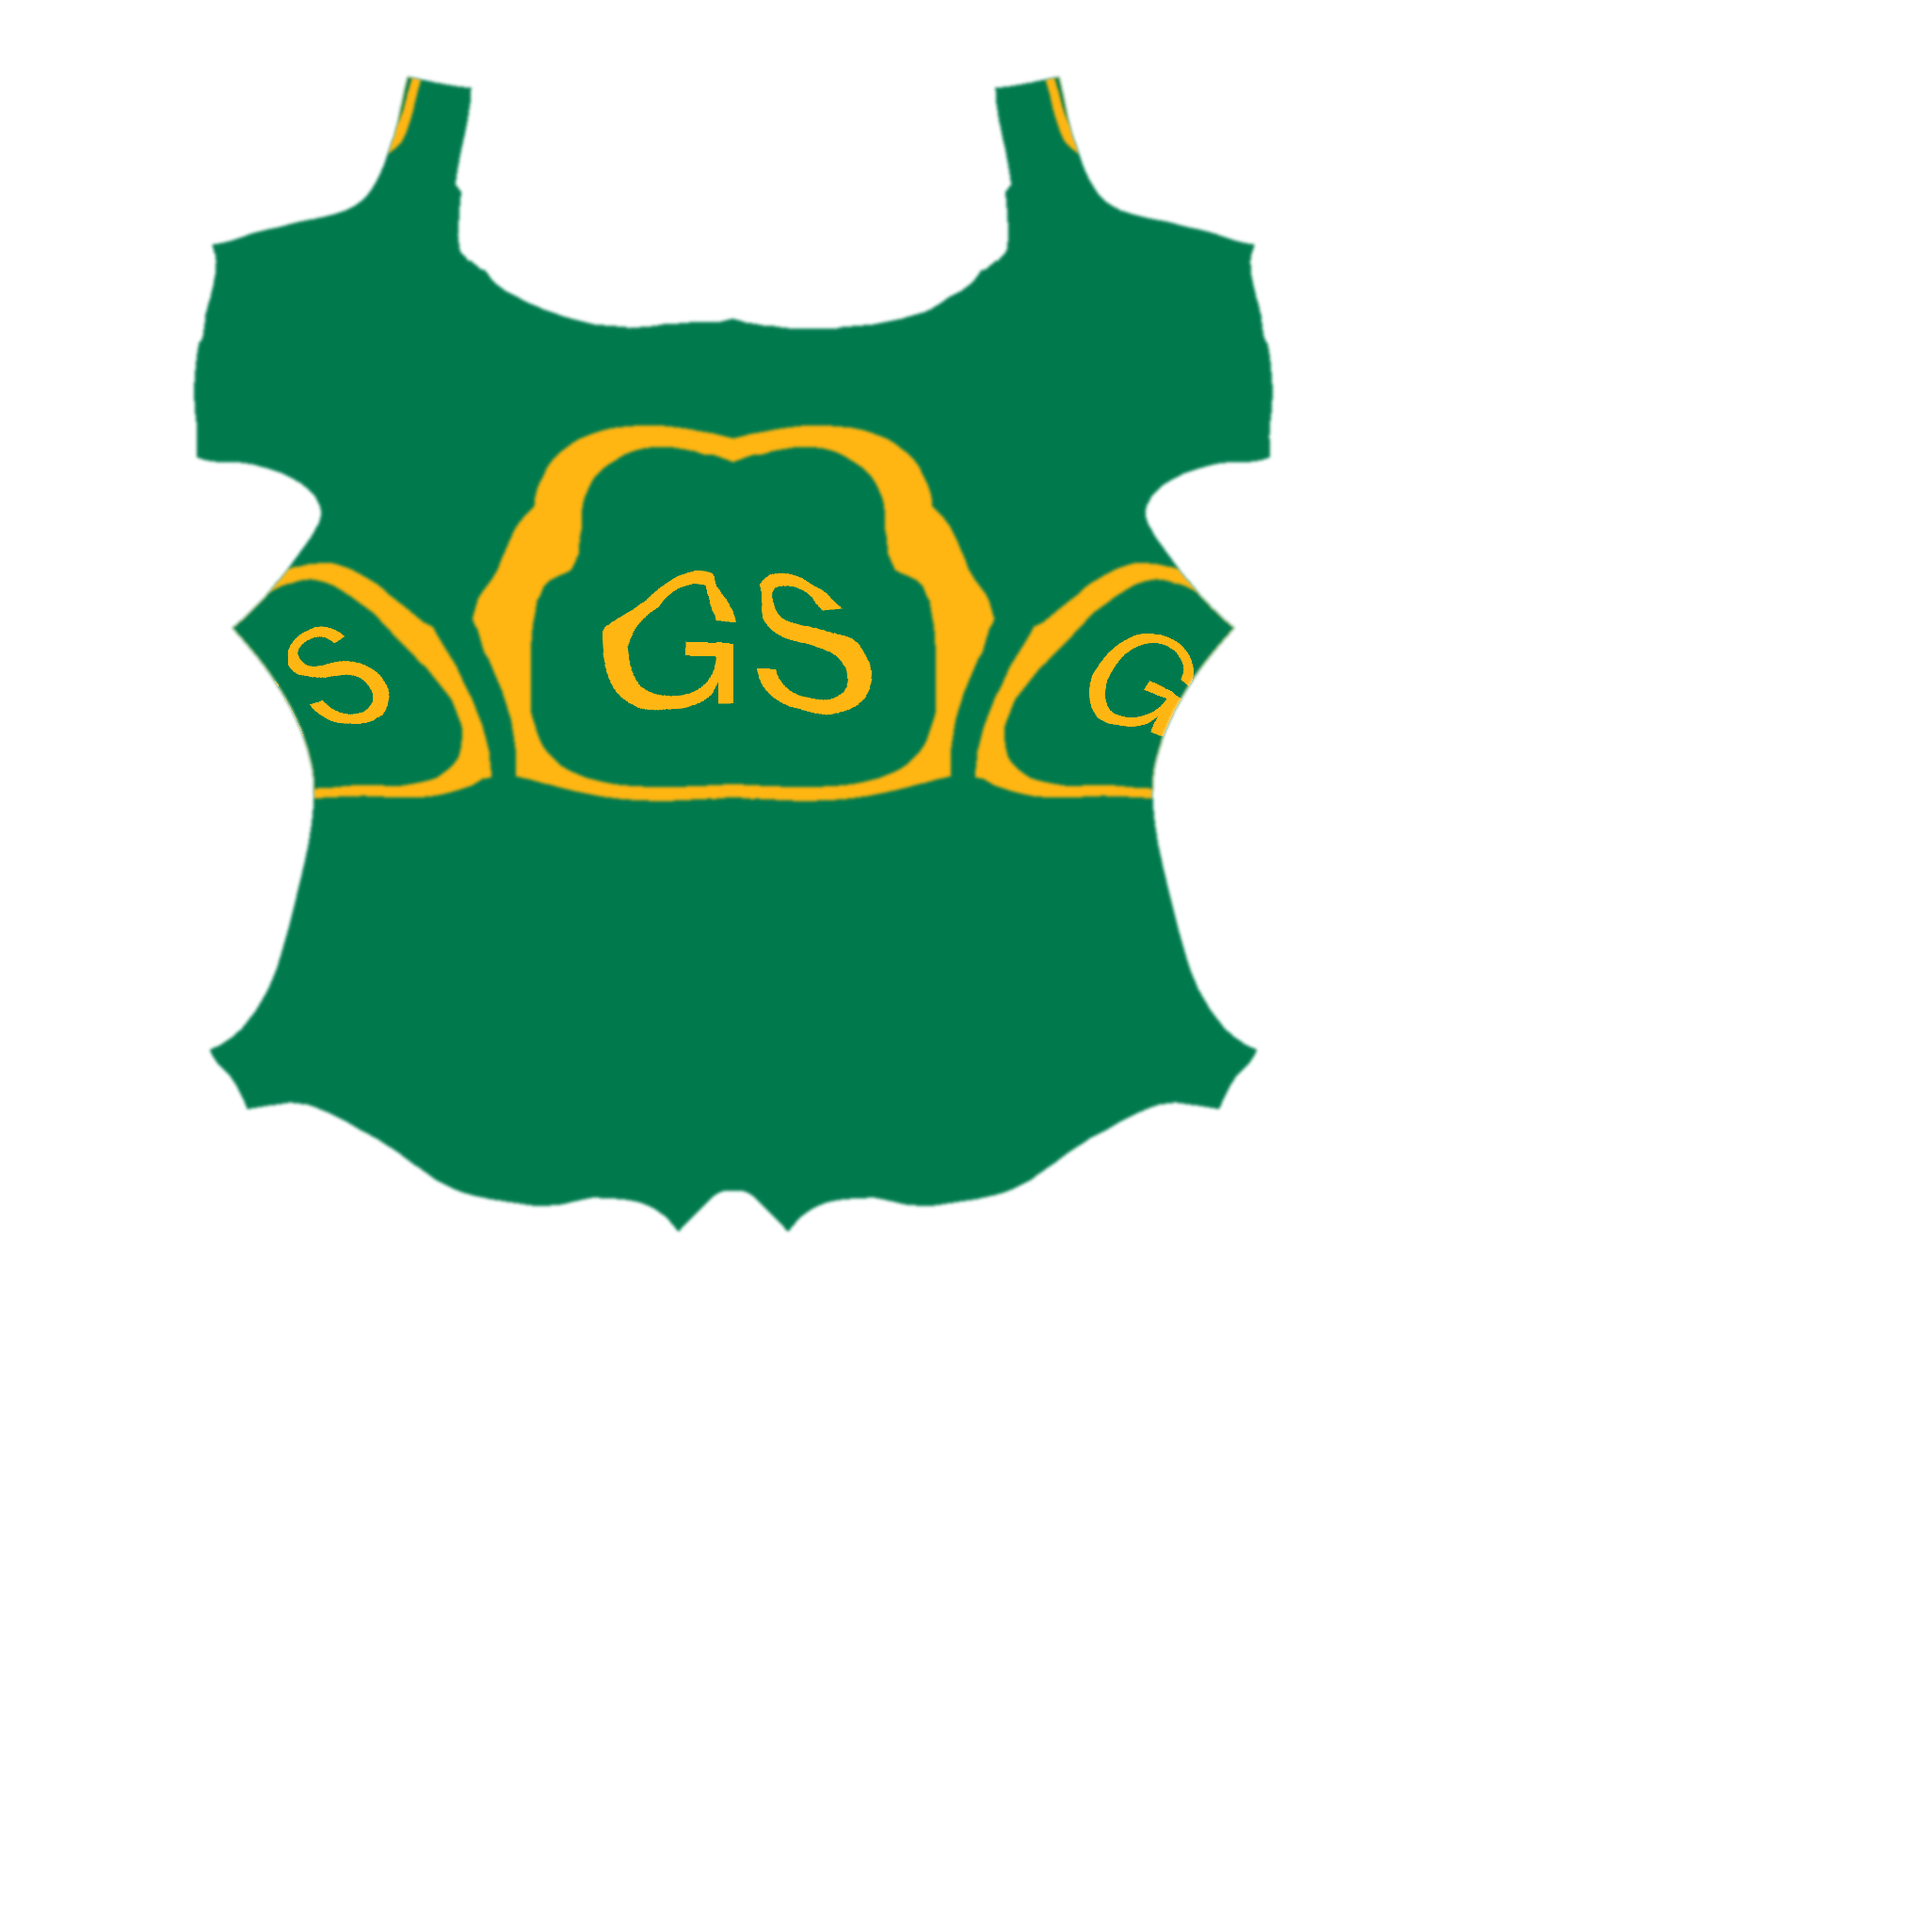
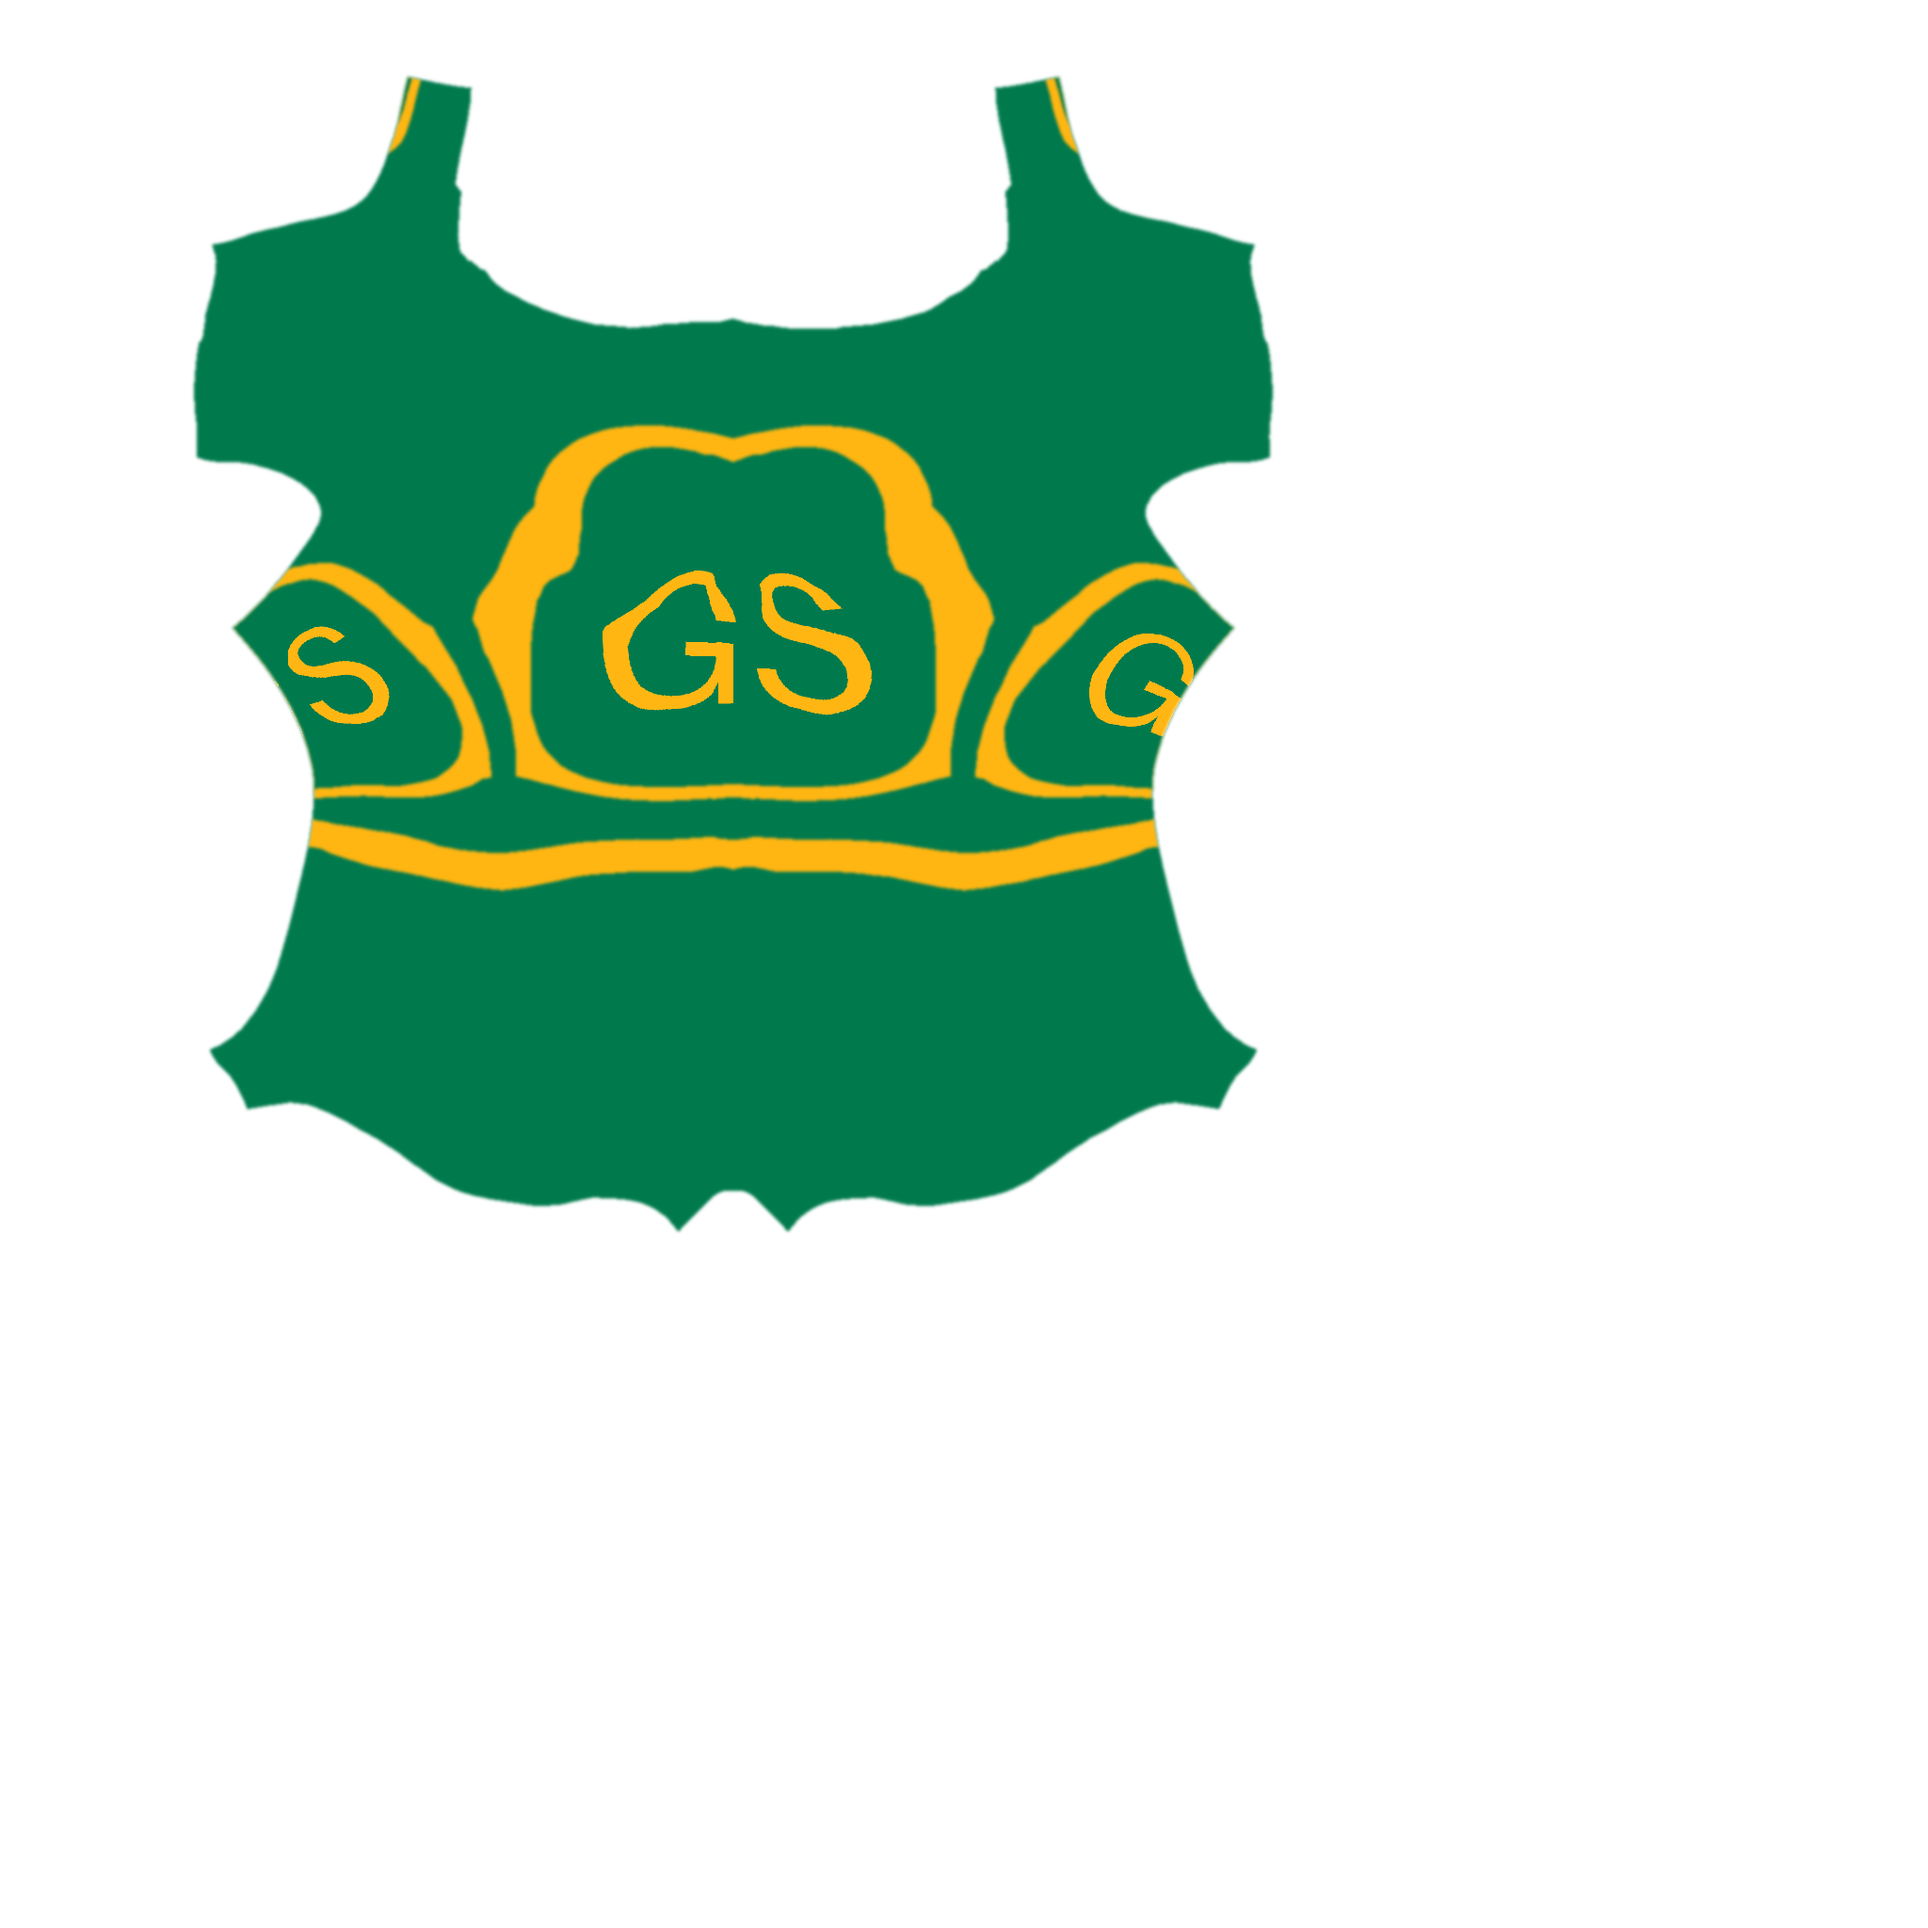
a gold waistband, because one green everywhere took the two-piece read back
The waist colour break made the kit read as a top and shorts. The colour ruling
put one green on both halves and the figure read as one piece again, which is
the fault Marius named at the start. A band restores the break without a second
body colour, and it is where the break BELONGS: shorts have a waistband, which
is why the eye reads two garments rather than a stripe.

  --waistband-fraction 0.59976   its bottom at 1.0070 m
  --waistband-height   0.030     30 mm, so its top is at 1.0370 m
  --waistband-colour             the letter colour when not given, so gold

IT LANDS ENTIRELY ON MY PAINT AND NEEDS NOTHING OF CLARK'S, and that was checked
before it was written rather than after. His shorts cover DOWNWARD from 1.007 m,
so a band from 1.007 m upward sits above his mesh. My paint spans 0.680 m to
1.402 m, so the band is well inside it.

THE HEIGHT IS IN METRES BECAUSE IT HAS TO BE READ AT A FRAMING. 30 mm is what a
sports waistband measures, and against the bib trim already on the figure --
12.5 mm -- it is 2.4 times as wide, which is the proportion a band has to a
trim line.

AND MY PIXEL PREDICTION WAS WRONG BY TWO, WHICH IS THE SAME FAULT AS THE HEM.
I predicted 14.7 image pixels from 2.04 mm per pixel. Measured on the render it
is 30 pixels. The arithmetic is right for a surface square to the camera and her
waist is not: she is in a landing crouch and the camera looks down at it, so the
band's depth projects as well as its height. A number measured for one geometry
[…]

Changed region(s): [[0.1562, 0.4062, 0.5938, 0.4688]]

diff --git a/kit_paint.py b/kit_paint.py
@@ -150,6 +150,23 @@ def main() -> None:
     parser.add_argument("--shorts-colour", default=None,
                         help="linear RGB below the waist; required with "
                              "--waist-fraction")
+    # A WAISTBAND IS WHAT A COLOUR BREAK BECOMES WHEN BOTH HALVES ARE ONE
+    # COLOUR. The waist break made the kit read as a top and shorts; a single
+    # ruled colour took that back and the figure read as one piece again. A band
+    # restores it without a second body colour, and it is where the break
+    # BELONGS: shorts have a waistband, and that is why the eye reads it as two
+    # garments rather than as a stripe.
+    #
+    # Its height is in METRES because it has to be read at a framing, not at a
+    # fraction: the manual's front view samples 2.04 mm per image pixel, so a
+    # 30 mm band is about 15 pixels against the bib trim's 6.
+    parser.add_argument("--waistband-fraction", type=float, default=None,
+                        help="where the band's BOTTOM sits, as a fraction of "
+                             "her height; omit for no band")
+    parser.add_argument("--waistband-height", type=float, default=0.030,
+                        help="metres, top minus bottom")
+    parser.add_argument("--waistband-colour", default=None,
+                        help="linear RGB; the letter colour when not given")
     # A PANEL DOWN THE FLANK. Cut exactly as the bib is, by which way the
     # surface faces, on the side of the body instead of the front.
     #
@@ -492,6 +509,31 @@ def main() -> None:
             f"sRGB {shorts.astype(int).tolist()}"
         )
 
+    # THE WAISTBAND, a level band and therefore continuous all the way round.
+    waistband_used = None
+    if arguments.waistband_fraction is not None:
+        bottom = level(arguments.waistband_fraction)
+        top = bottom + arguments.waistband_height
+        band = garment & (tall >= bottom) & (tall < top)
+        if band.sum() < 0.001 * covered.sum():
+            raise SystemExit(
+                f"[kit-paint] the waistband is empty: {int(band.sum())} pixels "
+                f"of {int(covered.sum())} covered, between {bottom:.3f} m and "
+                f"{top:.3f} m. Check --waistband-fraction."
+            )
+        band_colour = colour_of(
+            arguments.waistband_colour if arguments.waistband_colour is not None
+            else arguments.letter_colour,
+            "waistband-colour",
+        )
+        band_alpha = smooth(band, arguments.edge_pixels)[:, :, None]
+        painted = painted * (1 - band_alpha) + band_colour[None, None, :] * band_alpha
+        waistband_used = int(band.sum())
+        print(
+            f"[kit-paint] waistband {waistband_used} pixels, {bottom:.3f} m to "
+            f"{top:.3f} m ({arguments.waistband_height * 1000:.0f} mm)"
+        )
+
     # THE FLANK PANEL, CUT THE WAY THE BIB IS. Every reference kit has a panel
     # down the side, and a panel down the side is most of what makes a
     # photograph read as a sports kit rather than a unitard: it gives the figure
@@ -673,6 +715,9 @@ def main() -> None:
         "garmentPixels": int(garment.sum()),
         "bibPixels": bib_used,
         "flankPixels": flank_used,
+        "waistbandFraction": arguments.waistband_fraction,
+        "waistbandHeightM": arguments.waistband_height,
+        "waistbandPixels": waistband_used,
         "waistFraction": arguments.waist_fraction,
         "shortsPixels": waist_used,
         "flankFacing": arguments.flank_facing,

diff --git a/tests/test_kit_paint.py b/tests/test_kit_paint.py
@@ -339,6 +339,45 @@ class PaintedKit(unittest.TestCase):
         self.assertNotEqual(finished.returncode, 0)
         self.assertIn("needs --shorts-colour", finished.stdout + finished.stderr)
 
+    def test_the_waistband_is_a_band_and_not_a_half_plane(self):
+        """A band has a top as well as a bottom.
+
+        The colour break below paints EVERYTHING under a level. A waistband
+        must not: this asks for one 0.16 m tall on a 1.6 m tube and reads the
+        colour above it, inside it and below it. A rule that forgot its top
+        edge would paint the whole lower body and still produce a band where
+        the band was asked for, so checking inside alone would pass.
+        """
+        pixels, receipt, output = self.layer(
+            "waistband", "--no-bib", "--hem-fraction", "0.20",
+            "--neck-fraction", "0.80", "--waistband-fraction", "0.50",
+            "--waistband-height", "0.16",
+            "--kit-colour", "0.9,0.1,0.1", "--waistband-colour", "0.1,0.1,0.9",
+        )
+        self.assertEqual(receipt["waistbandFraction"], 0.50)
+        self.assertEqual(receipt["waistbandHeightM"], 0.16)
+        self.assertGreater(receipt["waistbandPixels"], 0)
+        self.assertIn("waistband", output)
+
+        def row_of(fraction: float) -> int:
+            return int(round((1.0 - fraction) * (SIZE - 1)))
+
+        column = SIZE // 2
+        # 0.16 m on a 1.6 m tube is 0.10 of its height, so the band runs from
+        # 0.50 to 0.60 and 0.55 is inside it.
+        above = pixels[row_of(0.70), column]
+        inside = pixels[row_of(0.55), column]
+        below = pixels[row_of(0.35), column]
+        for name, sample in (("above", above), ("inside", inside),
+                             ("below", below)):
+            self.assertGreater(sample[3], 200, f"nothing painted {name}")
+        self.assertGreater(int(inside[2]), int(inside[0]), "the band is not blue")
+        self.assertGreater(int(above[0]), int(above[2]), "above the band is not red")
+        self.assertGreater(
+            int(below[0]), int(below[2]),
+            "BELOW the band is not red, so the band has no top edge",
+        )
+
     def test_an_empty_garment_is_refused(self):
         """A hem above the neckline and a sleeve above her head paint nothing.
 
@@ -384,7 +423,8 @@ class PaintedKit(unittest.TestCase):
                 "flankFacing", "flankPixels", "hemRiseM", "position",
                 "readsNoSkin", "secondsToPaint", "shortsPixels",
                 "sleeveRadiusM", "strapWidthM", "textureSize", "upAxis",
-                "waistFraction",
+                "waistFraction", "waistbandFraction", "waistbandHeightM",
+                "waistbandPixels",
             },
         )
         self.assertEqual(
